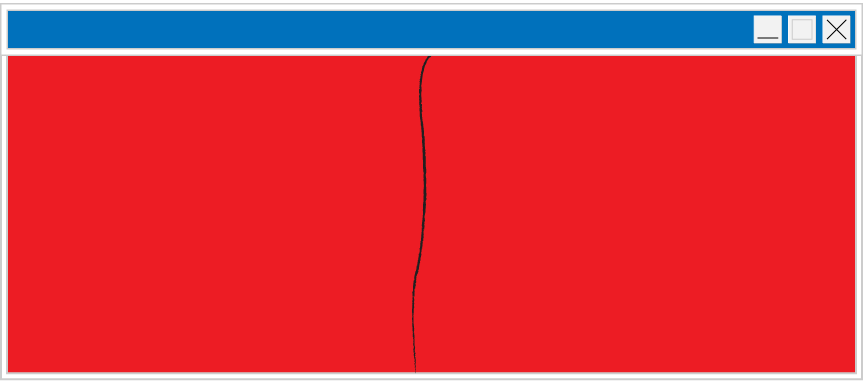
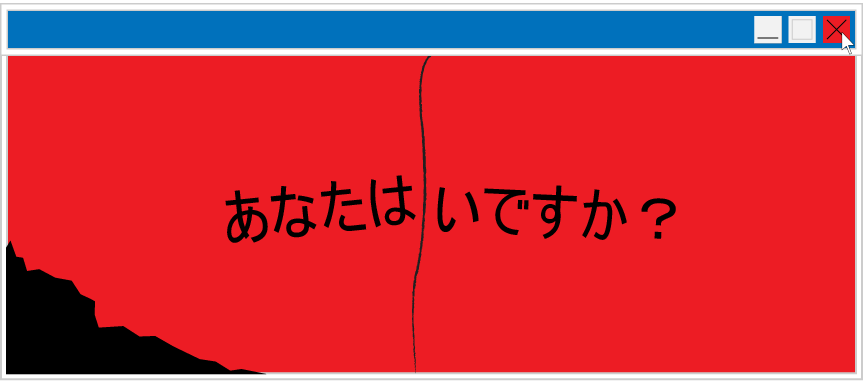
ホラー広告が出現する

diff --git a/webnazo-front/src/components/Room/phase3/Advertisement.tsx b/webnazo-front/src/components/Room/phase3/Advertisement.tsx
@@ -1,4 +1,4 @@
-import advSrc from "@/assets/image/広告背景.png"
+import advSrc from "@/assets/image/adv/広告背景1.png"
 import useSE from "@/SoundManager/useSE"
 import windowSE from "@/assets/sound/ビープ音1.mp3"
 import { useEffect } from "react"
@@ -15,8 +15,11 @@ const Advertisement = () => {
   }, [play, stop])
 
   return (
-    <div className="absolute top-[15rem]">
-      <img src={advSrc} alt="" />
+    <div className="absolute top-[15rem] z-10">
+      <div className="absolute right-3 top-[1rem] z-10 w-[1.6rem] border border-slate-100 bg-red-500 text-center shadow-md">
+        ✕
+      </div>
+      <img src={advSrc} alt="" className="z-5 relative" />
     </div>
   )
 }
